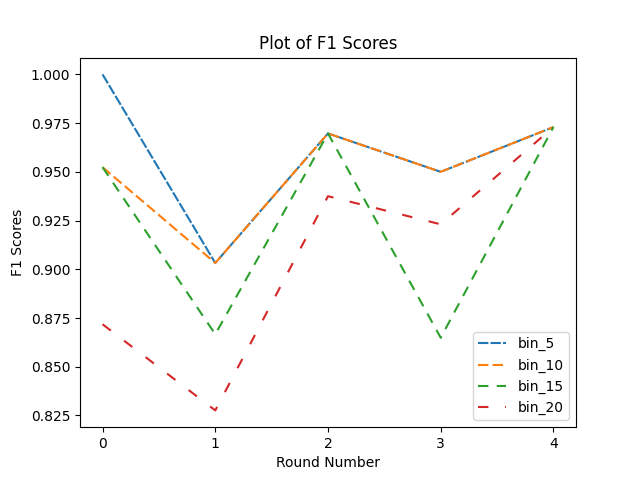
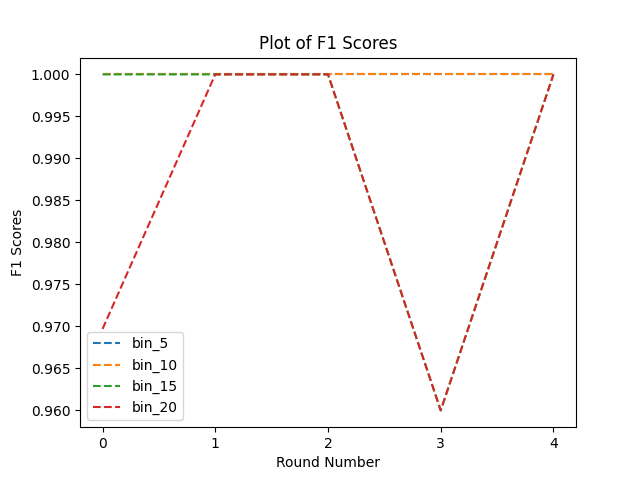
fix roc

diff --git a/src/main.py b/src/main.py
@@ -1,5 +1,6 @@
 from matplotlib.lines import lineStyles
 import pandas as pd
+import numpy as np
 import matplotlib.pyplot as plt
 from enum import Enum
 from statistics import mean
@@ -23,9 +24,10 @@ def main() -> None:
     TPR = {'bin_5': [], 'bin_10': [], 'bin_15': [], 'bin_20': []}
     
     
-    for i in range(constant.NUM_SPLITS):
+    for split_num in range(constant.NUM_SPLITS):
         data = data.sample(frac=1) # shuffle the data
         data_copy = data.copy(deep=True) # not really sure if this line is necessary
+        roc = {'bin_5': [[],[]], 'bin_10': [[],[]], 'bin_15': [[],[]], 'bin_20': [[],[]]}
         for bin_sz in constant.BIN_SIZES:
             data_copy = data.copy(deep=True)
 
@@ -37,67 +39,115 @@ def main() -> None:
 
             # split into test and train
             train_len = int(constant.TRAIN_SIZE*len(data_copy))
-            train_x = data_copy.iloc[:train_len,:]
-            test_x = data_copy.iloc[train_len:,:]
-
-            count_setosa = count(train_x, Labels.CLASS, Labels.SETOSA, Labels.SETOSA)
-            count_not_setosa = count(train_x, Labels.CLASS, Labels.NOTSETOSA, Labels.NOTSETOSA)
-
-            prob_setosa = count_setosa/len(train_x)
-            prob_not_setosa = count_not_setosa/len(train_x)
-
-            probabilities = {Labels.SETOSA:{}, Labels.NOTSETOSA:{}}
+            train = data_copy.iloc[:train_len,:]
+            test = data_copy.iloc[train_len:,:]
             
-            # caluclate probabilities
-            for column in train_x.columns[:-1]:
-                probabilities[Labels.SETOSA][column] = {}
-                probabilities[Labels.NOTSETOSA][column] = {}
+            # calculate train probabilities
+            n_yes = count(train, Labels.CLASS, Labels.SETOSA, Labels.SETOSA)
+            n_no = count(train, Labels.CLASS, Labels.NOTSETOSA, Labels.NOTSETOSA)
+            train_probabilities = {Labels.SETOSA:{}, Labels.NOTSETOSA:{}}
+
+            for column in train.columns[:-1]:
+                train_probabilities[Labels.SETOSA][column] = {}
+                train_probabilities[Labels.NOTSETOSA][column] = {}
 
                 for i in range(bin_sz):
-                    count_bin_setosa = count(train_x, column, i, Labels.SETOSA)
-                    count_bin_not_setosa = count(train_x, column, i, Labels.NOTSETOSA)
+                    nc_yes = count(train, column, i, Labels.SETOSA)
+                    nc_no = count(train, column, i, Labels.NOTSETOSA)
 
-                    probabilities[Labels.SETOSA][column][i] = count_bin_setosa /count_setosa
-                    probabilities[Labels.NOTSETOSA][column][i] = count_bin_not_setosa / count_not_setosa
+                    train_probabilities[Labels.SETOSA][column][i] = (nc_yes + 1)/(n_yes + bin_sz)
+                    train_probabilities[Labels.NOTSETOSA][column][i] = (nc_no+ 1)/(n_no + bin_sz)
+            
+            true_pos, true_neg, false_pos,false_neg = 0,0,0,0
+            train_prob_setosa = n_yes / len(train)
+            train_prob_not_setosa = n_no / len(train)
 
-            true_pos,true_neg, false_pos,false_neg = 0,0,0,0
+            min_diff = 2.0
+            max_diff = 0.0
 
-            for row in range(len(test_x)):
-                prod_setosa = prob_setosa
-                prod_not_setosa = prob_not_setosa
+            # Calculate F-measures on test data
+            for row in range(len(test)):
+                prod_setosa = train_prob_setosa
+                prod_not_setosa = train_prob_not_setosa
 
-                for feature in test_x.columns[:-1]:
-                    prod_setosa *= probabilities[Labels.SETOSA][feature][test_x[feature].iloc[row]]
-                    prod_not_setosa *= probabilities[Labels.NOTSETOSA][feature][test_x[feature].iloc[row]]
-                    
-                
+                for feature in test.columns[:-1]:
+                    prod_setosa *= train_probabilities[Labels.SETOSA][feature][test[feature].iloc[row]]
+                    prod_not_setosa *= train_probabilities[Labels.NOTSETOSA][feature][test[feature].iloc[row]]
+            
+                min_diff = min(abs(prod_setosa - prod_not_setosa), min_diff)
+                max_diff = max(abs(prod_setosa - prod_not_setosa), max_diff)
                 if prod_setosa > prod_not_setosa:
-                    if test_x[Labels.CLASS].iloc[row] == Labels.SETOSA:
+                    if test[Labels.CLASS].iloc[row] == Labels.SETOSA:
                         true_pos += 1
                     else:
                         false_pos += 1
                 else:
-                    if test_x[Labels.CLASS].iloc[row] == Labels.NOTSETOSA:
+                    if test[Labels.CLASS].iloc[row] == Labels.NOTSETOSA:
                         true_neg += 1
                     else:
                         false_neg += 1
-
+            
             bin_string = "bin_"+str(bin_sz)
-            accuracies[bin_string].append((true_pos+true_neg) / len(test_x))
+            accuracies[bin_string].append((true_pos + true_neg) / len(test))
 
             # Calculate the F1 scores
             precision = true_pos / (true_pos + false_pos)
             recall = true_pos / (true_pos + false_neg)
 
-            F1_measure[bin_string].append(2*precision*recall/(precision+recall))
+            F1_measure[bin_string].append((2*precision*recall)/(precision+recall))
             TPR[bin_string].append(true_pos / (true_pos + false_neg))
-            FPR[bin_string].append(false_pos/ (true_neg+false_pos))
+            FPR[bin_string].append(false_pos/ (true_neg + false_pos))
 
-    
-    
-    fig1 = plt.figure()
+            # print("tp: ", true_pos)
+            # print("fp: ", false_pos)
+            # print("tn: ", true_neg)
+            # print("fn: ", false_neg)
+            # print(train_probabilities)
+
+            # Construct ROC on test data
+
+            for threshold in reversed(np.linspace(min_diff
+            ,max_diff,10)):
+                tp, fp = 0,0
+                for row in range(len(test)):
+                    prod_setosa = train_prob_setosa
+                    prod_not_setosa = train_prob_not_setosa
+                    
+
+                    for feature in test.columns[:-1]:
+                        prod_setosa *= train_probabilities[Labels.SETOSA][feature][test[feature].iloc[row]]
+                        prod_not_setosa *= train_probabilities[Labels.NOTSETOSA][feature][test[feature].iloc[row]]
+
+                    if abs(prod_setosa - prod_not_setosa) >= threshold:
+                        # print("class: ", test[Labels.CLASS].iloc[row])
+                        if test[Labels.CLASS].iloc[row] == Labels.SETOSA:
+                            tp += 1
+                        else:
+                            fp += 1
+                # print("tp: ", tp)
+                # print("fp: ", fp)
+
+                tpr = tp/true_pos
+                fpr = fp/true_neg
+                roc[bin_string][0].append(fpr)
+                roc[bin_string][1].append(tpr)
+
+        fig = plt.figure(split_num)
+        for i, key in enumerate(roc):
+            plt.plot(roc[key][0], roc[key][1], label=key)
+            plt.xlabel('FPR')
+            plt.ylabel('TPR')
+            plt.title('ROC of Setosa vs. Not Setosa')
+            plt.legend()
+        fig.savefig("../figures/roc_curve_plot_" + str(split_num) + ".png")
+            # print(roc)
+
+    print(accuracies)
+    print(F1_measure)
+
+    fig5 = plt.figure(5)
     for key in accuracies:
-        plt.plot(range(constant.NUM_SPLITS), accuracies[key], label=key, alpha=0.6)
+        plt.plot(range(constant.NUM_SPLITS), accuracies[key], label=key, linestyle="--")
         plt.xlabel('Round Number')
         plt.ylabel('Accuracy Score')
         plt.xticks(range(constant.NUM_SPLITS))
@@ -110,35 +160,19 @@ def main() -> None:
         print("\tMax Acc: " + str(max(accuracies[key])))
         print("\tAvg Acc: " + str(mean(accuracies[key])))
 
-    fig1.savefig("../figures/accuracy_score_plot.png")
+    fig5.savefig("../figures/accuracy_score_plot.png")
     
-    fig2 = plt.figure()
+    fig6 = plt.figure(6)
     # ls = ['-', ':', '-.', '--']
     for i, key in enumerate(F1_measure):
-        plt.plot(range(constant.NUM_SPLITS), F1_measure[key], label=key, linestyle="--", dashes=(5, pow(2, i)))
+        plt.plot(range(constant.NUM_SPLITS), F1_measure[key], label=key, linestyle="--")
         plt.xlabel('Round Number')
         plt.ylabel('F1 Scores')
         plt.xticks(range(constant.NUM_SPLITS))
         
         plt.title('Plot of F1 Scores')
         plt.legend()
-    fig2.savefig("../figures/f1_score_plot.png")
-
-    fig3 = plt.figure()
-    for i, key in enumerate(FPR):
-        plt.plot(FPR[key], TPR[key], label=key, linestyle="--", dashes=(5, pow(2, i)))
-        plt.xlabel('FPR')
-        plt.ylabel('TPR')
-        plt.xticks(range(constant.NUM_SPLITS))
-        plt.title('ROC of Setosa vs. Not Setosa')
-        plt.legend()
-    fig3.savefig("../figures/roc_curve_plot.png")
-
-
-
-    print("F1_scores: ", F1_measure)
-    print("FPR: ", FPR)
-    print("TPR: ", TPR)
+    fig6.savefig("../figures/f1_score_plot.png")
 
                     
 
